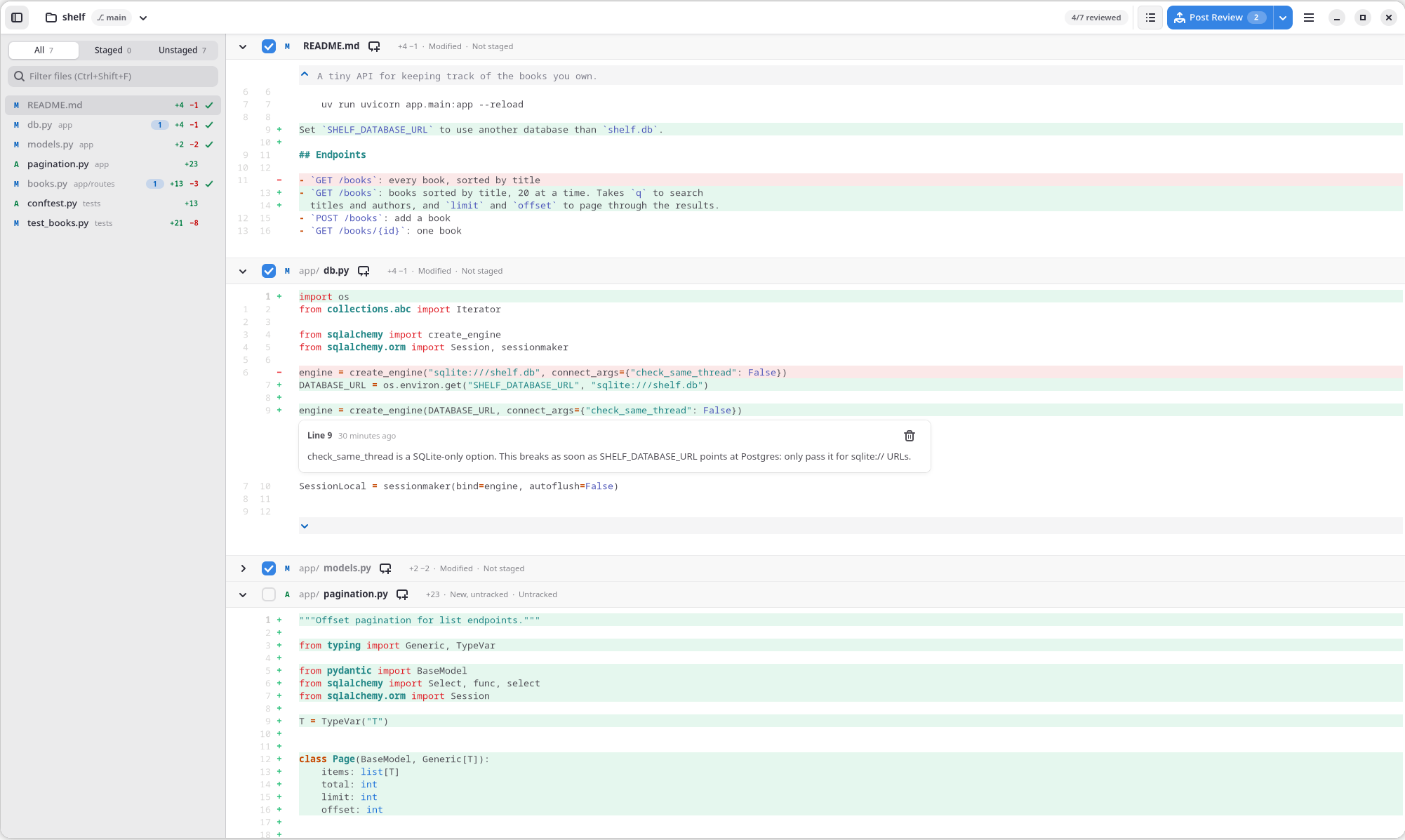
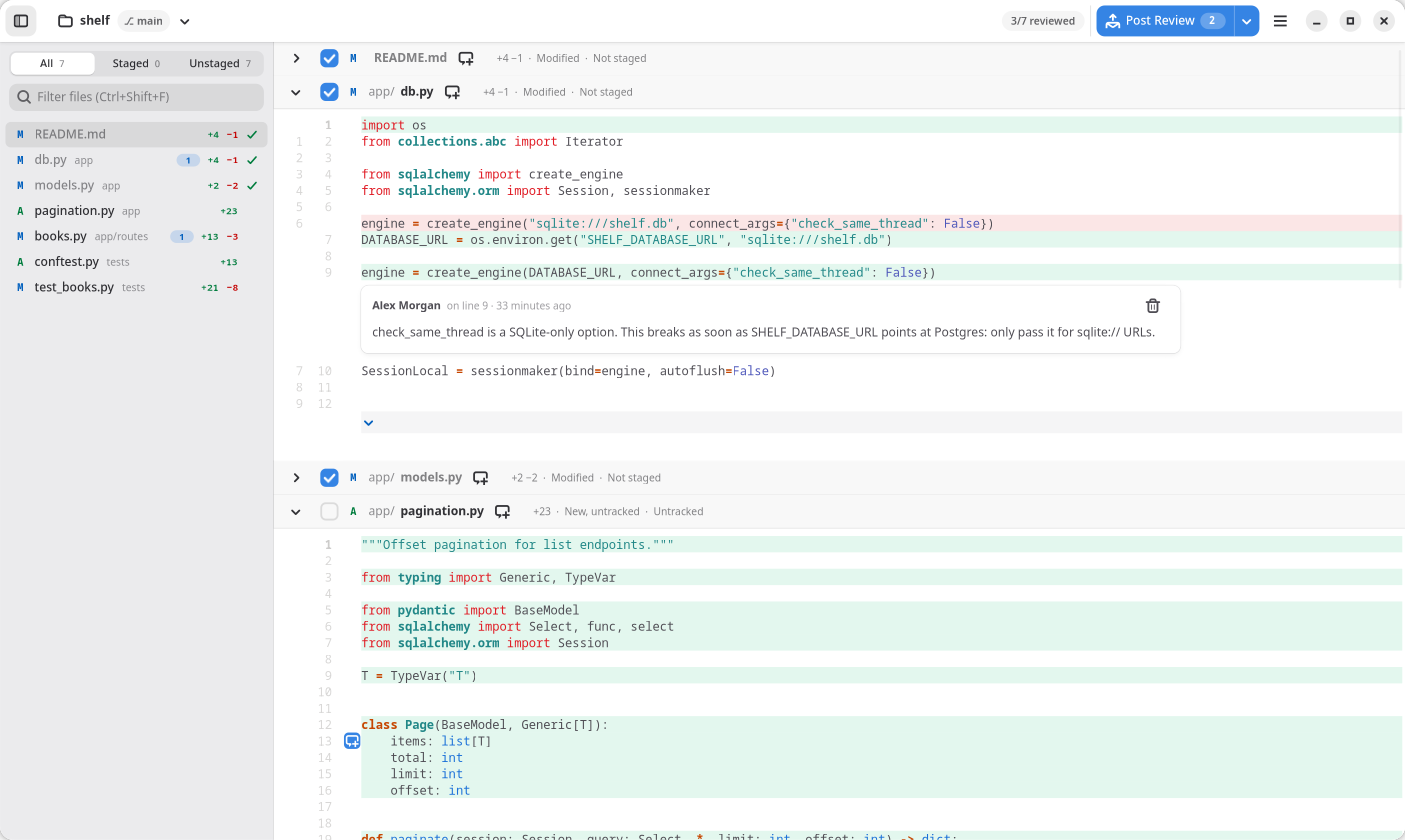
One-line installer, Posted Reviews in the main menu (0.7.0)
- scripts/install.sh downloads the latest release's .deb or .rpm for the
  current distribution, installs it with apt or dnf, and deletes the
  download: curl -fsSL .../main/scripts/install.sh | sh
- Posted Reviews moves from the top bar into the main menu.
- The line comment button uses the comment icon instead of a plus.
- New README screenshot showing comment authors and the comment button;
  the demo repository commits as a named author.

Changed region(s): [[0.0, 0.0, 1.0, 1.0], [0.7039, 0.0, 1.0, 0.0619]]

diff --git a/src/ui/style.css b/src/ui/style.css
@@ -17,16 +17,6 @@
 .topbar splitbutton.toolbar-button > menubutton > button { min-height: 28px; font-weight: 500; }
 .topbar splitbutton.toolbar-button > button { padding: 0 10px; border-radius: 6px 0 0 6px; }
 .topbar splitbutton.toolbar-button > menubutton > button { padding: 0 6px; border-radius: 0 6px 6px 0; }
-.topbar .open-count {
-  min-width: 16px;
-  padding: 0 5px;
-  border-radius: 999px;
-  background: alpha(@accent_bg_color, 0.2);
-  color: @accent_color;
-  font-size: 0.8em;
-  font-weight: 800;
-  font-feature-settings: "tnum";
-}
 
 .review-check { margin-right: 4px; }
 
@@ -171,7 +161,7 @@ button.composer-button {
   color: @accent_fg_color;
   border-radius: 5px;
   padding: 2px;
-  -gtk-icon-size: 12px;
+  -gtk-icon-size: 14px;
 }
 /* Around the lines being picked or commented on. */
 .line-frame {

diff --git a/src/ui/window.rs b/src/ui/window.rs
@@ -52,8 +52,6 @@ struct Widgets {
     review_actions: gtk::Box,
     progress: gtk::Label,
     post_count: gtk::Label,
-    reviews_button: gtk::Button,
-    reviews_count: gtk::Label,
     reviews_dialog: ReviewsDialog,
     error_page: adw::StatusPage,
     clean_page: adw::StatusPage,
@@ -653,15 +651,6 @@ impl Window {
         let unsent: usize = project.review.files.keys().map(|p| project.review.unsent_notes(p)).sum();
         w.post_count.set_text(&unsent.to_string());
         w.post_count.set_visible(unsent > 0);
-
-        let open: usize = project.posted.iter().map(|e| e.open().count()).sum();
-        w.reviews_count.set_text(&open.to_string());
-        w.reviews_count.set_visible(open > 0);
-        w.reviews_button.set_tooltip_text(Some(&match open {
-            0 => "Posted Reviews (Ctrl+Shift+R)".to_owned(),
-            1 => "Posted Reviews: 1 comment not resolved yet (Ctrl+Shift+R)".to_owned(),
-            n => format!("Posted Reviews: {n} comments not resolved yet (Ctrl+Shift+R)"),
-        }));
     }
 
     fn render_content(&self) {
@@ -1075,23 +1064,9 @@ fn build_widgets(app: &adw::Application, settings: &Settings) -> Widgets {
     post_button.add_css_class("suggested-action");
     post_button.add_css_class("toolbar-button");
 
-    let reviews_count = gtk::Label::new(None);
-    reviews_count.add_css_class("open-count");
-    reviews_count.set_valign(gtk::Align::Center);
-    let reviews_content = gtk::Box::new(gtk::Orientation::Horizontal, 6);
-    reviews_content.append(&gtk::Image::from_icon_name("view-list-bullet-symbolic"));
-    reviews_content.append(&reviews_count);
-    let reviews_button = gtk::Button::builder()
-        .child(&reviews_content)
-        .tooltip_text("Posted Reviews (Ctrl+Shift+R)")
-        .action_name("win.show-reviews")
-        .build();
-    reviews_button.add_css_class("toolbar-button");
-
     let review_actions = gtk::Box::new(gtk::Orientation::Horizontal, 6);
     review_actions.append(&progress);
     review_actions.append(&gtk::Separator::new(gtk::Orientation::Vertical));
-    review_actions.append(&reviews_button);
     review_actions.append(&post_button);
 
     let main_menu = gio::Menu::new();
@@ -1100,6 +1075,7 @@ fn build_widgets(app: &adw::Application, settings: &Settings) -> Widgets {
     section.append(Some("Refresh"), Some("win.refresh"));
     main_menu.append_section(None, &section);
     let section = gio::Menu::new();
+    section.append(Some("Posted Reviews"), Some("win.show-reviews"));
     section.append(Some("Clear Review…"), Some("win.clear-review"));
     main_menu.append_section(None, &section);
     let section = gio::Menu::new();
@@ -1269,8 +1245,6 @@ fn build_widgets(app: &adw::Application, settings: &Settings) -> Widgets {
         review_actions,
         progress,
         post_count,
-        reviews_button,
-        reviews_count,
         reviews_dialog: ReviewsDialog::new(),
         error_page,
         clean_page,

diff --git a/src/ui/diff_view.rs b/src/ui/diff_view.rs
@@ -216,7 +216,7 @@ impl DiffView {
         let frame = gtk::Box::builder().css_classes(["line-frame"]).can_target(false).visible(false).build();
         overlay.add_overlay(&frame);
         let button = gtk::Image::builder()
-            .icon_name("list-add-symbolic")
+            .icon_name("chat-message-new-symbolic")
             .css_classes(["line-comment-button"])
             .cursor(&gtk::gdk::Cursor::from_name("pointer", None).expect("the pointer cursor"))
             .visible(false)

diff --git a/README.md b/README.md
@@ -12,7 +12,7 @@
 
 </div>
 
-![Agent Review showing a project's changes: reviewed files collapsed to their header, a comment inline under the line it is about, and the file list with review checkmarks](data/screenshots/review.png)
+![Agent Review showing a project's changes: reviewed files collapsed to their header, a signed comment inline under the line it is about, the comment button on a hovered line, and the file list with review checkmarks](data/screenshots/review.png)
 
 Coding agents write a lot of code, fast, and interrupting them after every file doesn't
 scale. Agent Review is a small native Linux desktop app for reviewing their work *while it
@@ -45,8 +45,8 @@ about 1 MB and uses the GTK libraries Fedora and Ubuntu already ship.
 - **Diffs:** syntax highlighted, with old and new line numbers, find across files, and a
   filter for the file list.
 - **Comments:**
-  - Hover a line and click the **+** beside it to comment on that line, or drag it up or
-    down to comment on several lines. Shift-click extends the previous pick.
+  - Hover a line and click the comment button beside it to comment on that line, or drag it
+    up or down to comment on several lines. Shift-click extends the previous pick.
   - Or select lines in the code and press Ctrl+M.
   - Use the icon next to the file name to comment on the whole file.
   - Comments appear inline, under the lines they refer to.
@@ -59,9 +59,8 @@ about 1 MB and uses the GTK libraries Fedora and Ubuntu already ship.
 - **Post Review:** queues all unsent comments for your agent, which pulls them through the
   [MCP server](#connecting-your-agent). Changed your mind? Undo takes the review back until
   the agent pulls it.
-- **Posted reviews:** the list button in the top bar counts the comments your agent hasn't
-  resolved yet and lists every review you posted, each comment marked *Waiting*, *Picked up*
-  or *Resolved*. It updates live as the agent works.
+- **Posted reviews:** in the main menu, lists every review you posted, each comment marked
+  *Waiting*, *Picked up* or *Resolved*. It updates live as the agent works.
 - **Copy Feedback:** from the arrow next to Post Review, puts all unsent comments on the
   clipboard as a Markdown prompt instead. The toast lets you mark them unsent again.
 - **Agent-agnostic:** reviews go through MCP, an open standard most coding agents support,
@@ -90,8 +89,16 @@ and Ubuntu 24.04+ have all of them.
 
 ### Packages
 
-Grab the `.deb` or `.rpm` from the
-[latest release](https://github.com/ralphnajm/agent-review/releases/latest) and install it:
+On Ubuntu, Debian, Fedora and their derivatives (x86_64), install or update to the latest release
+with:
+
+```sh
+curl -fsSL https://raw.githubusercontent.com/ralphnajm/agent-review/main/scripts/install.sh | sh
+```
+
+It downloads the `.deb` or `.rpm` for your distribution, installs it with `apt` or `dnf` (asking for
+your password through `sudo`), and deletes the download. Or grab the package from the
+[latest release](https://github.com/ralphnajm/agent-review/releases/latest) and install it yourself:
 
 ```sh
 sudo apt install ./agent-review_*.deb    # Ubuntu / Debian

diff --git a/CHANGELOG.md b/CHANGELOG.md
@@ -5,6 +5,18 @@ All notable changes to Agent Review are documented here. The format follows
 [Semantic Versioning](https://semver.org/). Each version's section becomes the
 notes of its GitHub release.
 
+## [0.7.0] - 2026-10-13
+
+### Added
+
+- A one-line installer: `curl -fsSL https://raw.githubusercontent.com/ralphnajm/agent-review/main/scripts/install.sh | sh`
+  installs or updates to the latest release on Ubuntu, Debian, Fedora and their derivatives.
+
+### Changed
+
+- **Posted Reviews** moved from its button in the top bar to the main menu (still Ctrl+Shift+R).
+- The button for commenting on lines shows a comment icon instead of a plus.
+
 ## [0.6.0] - 2026-10-13
 
 ### Added
